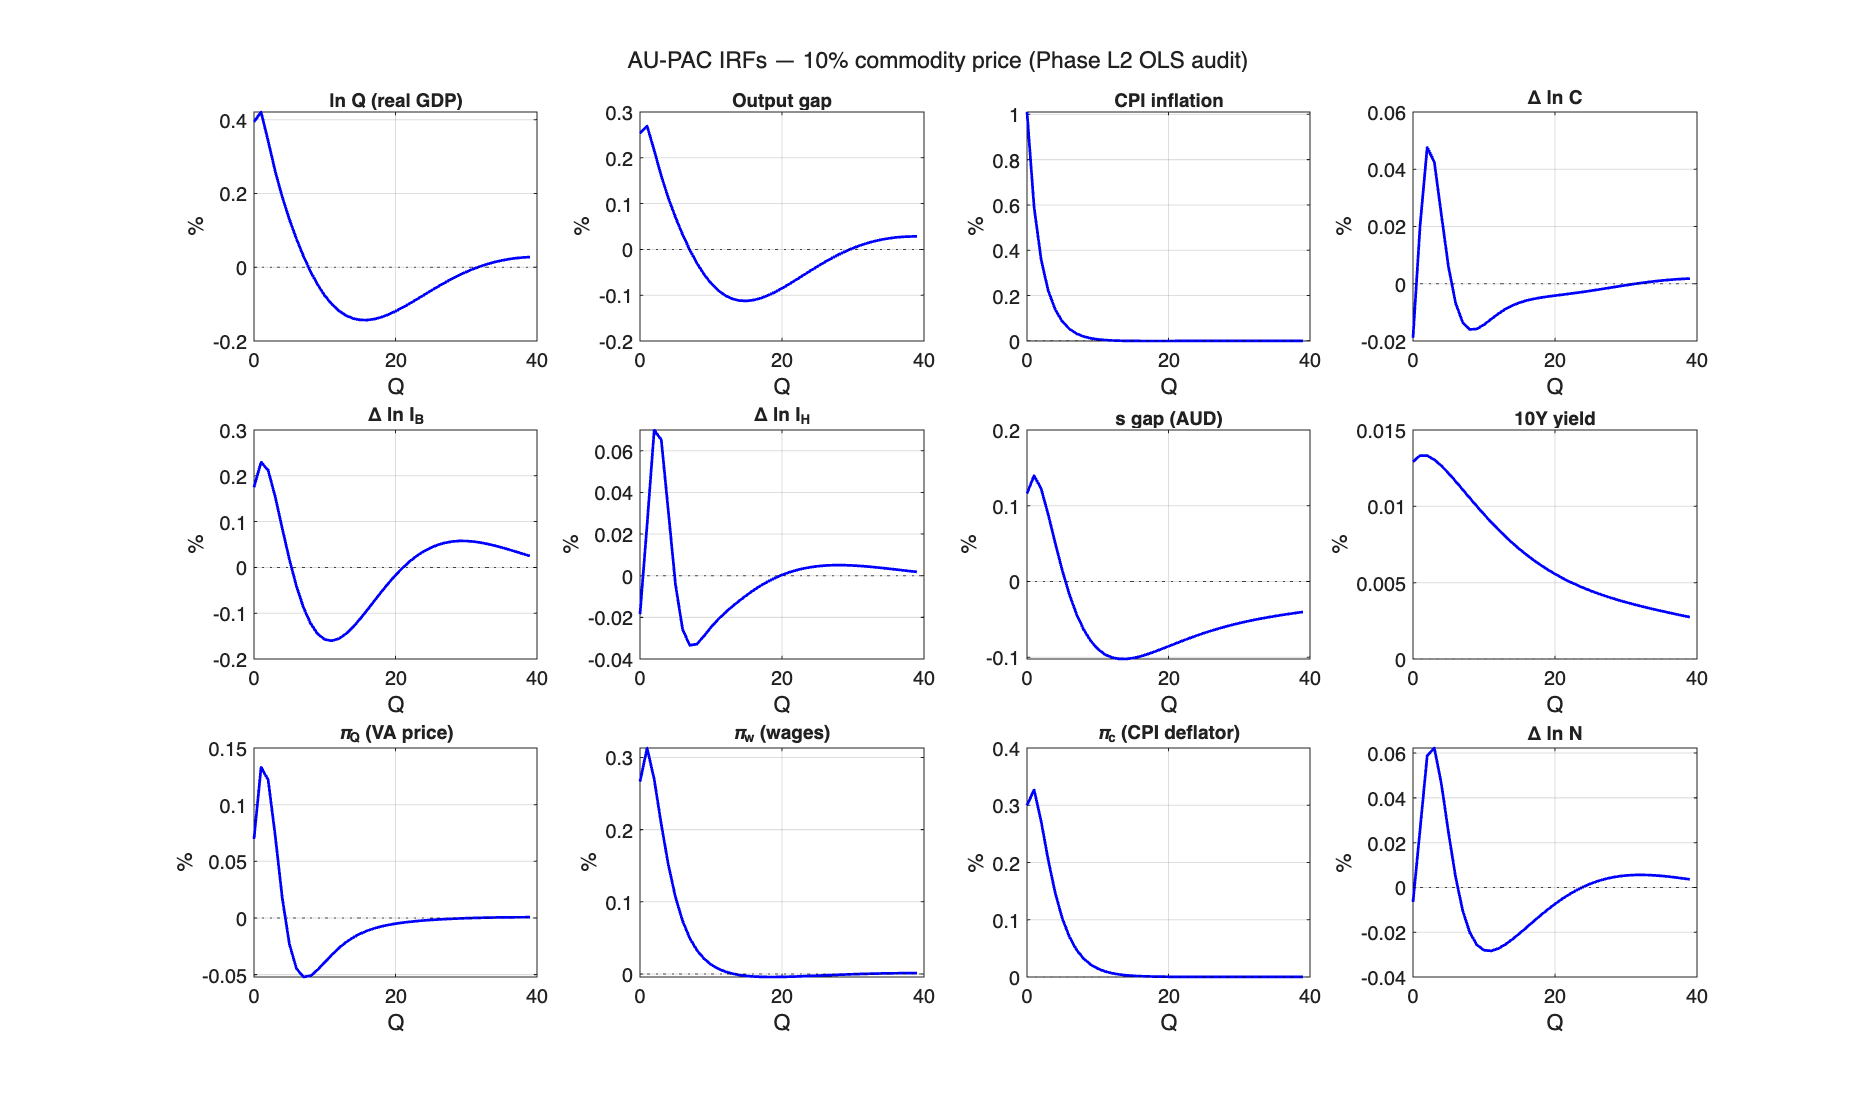
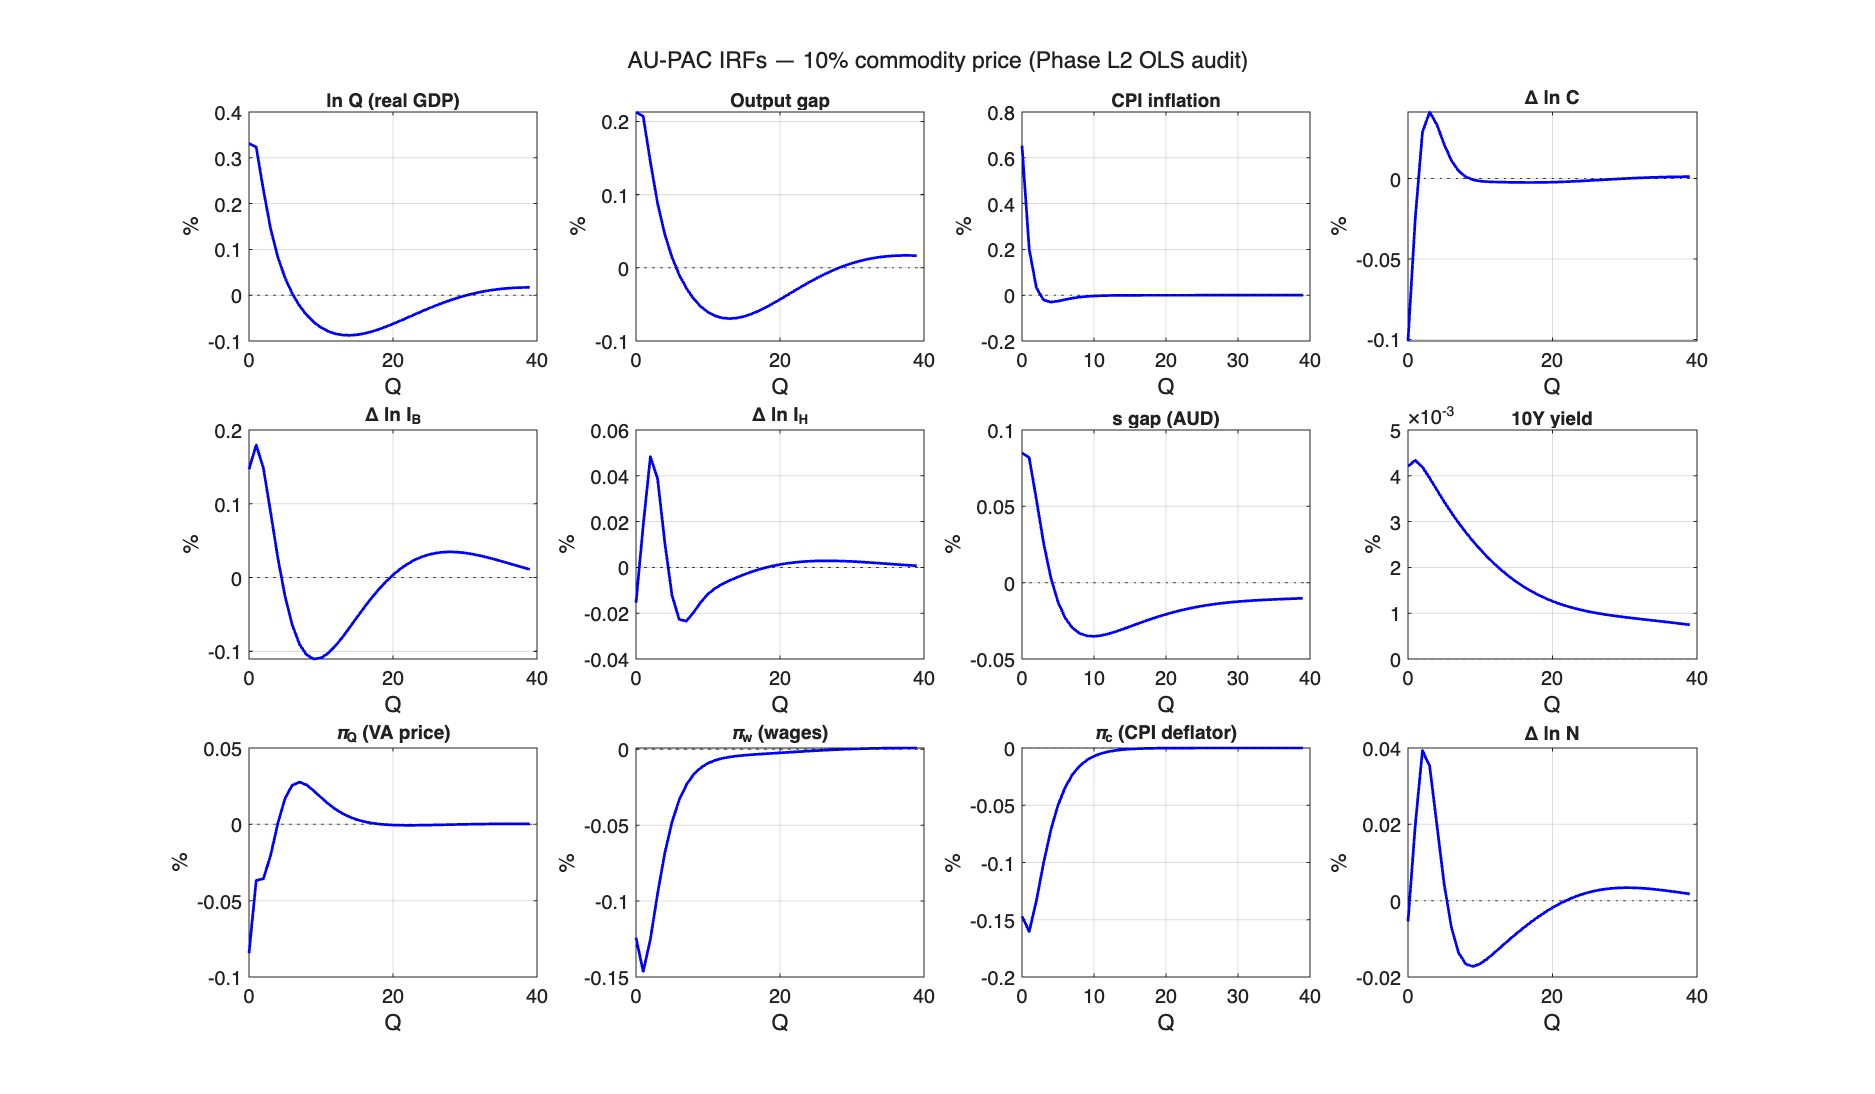
wave2: commodity->CPI channel estimated; BI rejection robust; stale "partial" caveats closed
Three Wave-2 findings, all enabled by l2_data_layer_v2.mat already containing data the
docs claimed was missing (exports, p_SH/p_IH) plus dln_pcom in trade_price_data.mat:

1. Flat-Phillips commodity channel (gamma_oil): added dln_pcom (RBA I02) to the CPI
   Phillips OLS. gamma_oil = -0.0147 (t=-1.61, insignificant AND wrong-signed); R2 only
   0.063->0.083. The flat-AU-Phillips finding is ROBUST to the commodity channel. Written
   back verbatim into the production pi_c equation per the OLS-over-calibration convention
   (contemporaneous channel; aux-VAR lagged use and the frozen h_pac left unchanged).

2. Business investment rejection is ROBUST. Re-ran the BI PAC estimation with the COMPLETE
   df_full (c + ih + exports) + wacc-based r_KB: still R2~0.09, beta_3 (demand gap) insig
   (t=0.63), no valid chi root. The #1 audit caveat ("rejection confounded by missing
   exports / simplified WACC") is refuted -> the wp1044 Option-1 calibration is justified,
   not a data-gap artifact. Fixed the script's stale "exports missing" notes.

3. Housing price-spread is NOT skipped. The estimator already builds (p_SH - p_IH) from the
   v2 layer (p_SH=ABS 6416 RPPI, p_IH=ABS 5206 IPD); beta_3 ~ -2.8 (t<1), insignificant/
   wrong-signed, consistent with the production b_ph_ih=0. Fixed the stale "skipped" notes.

BLOCK_LIMITATIONS.md updated with a header note: the BI-exports and housing-price-spread
[…]

diff --git a/data/pac_blocks/estimate_cpi_phillips.m b/data/pac_blocks/estimate_cpi_phillips.m
@@ -74,6 +74,20 @@ end
 fprintf('Import IPD: %d obs loaded, %d valid, std=%.3f\n', ...
         numel(pi_m_full), sum(~isnan(pi_m_aligned)), std(pi_m_aligned,'omitnan'));
 
+%% Load AU commodity-price change (RBA I02) for the oil/commodity passthrough channel
+% Wave 2: dln_pcom IS available in trade_price_data.mat (built from RBA I02), so the
+% gamma_oil channel can now be AU-estimated rather than left at the wp1044 calibration.
+TP = load(fullfile(projectdir,'data','trade_price_data.mat'));
+dln_pcom_full = TP.dln_pcom(:);
+dln_pcom_full = dln_pcom_full(~isnan(dln_pcom_full));
+if numel(dln_pcom_full) >= T_est
+    dln_pcom_aligned = dln_pcom_full(end-T_est+1:end);   % end-align to sample end (as for pi_m)
+else
+    dln_pcom_aligned = [NaN(T_est-numel(dln_pcom_full),1); dln_pcom_full];
+end
+fprintf('dln_pcom (RBA I02): %d obs, aligned %d, std=%.3f\n', ...
+        numel(dln_pcom_full), sum(~isnan(dln_pcom_aligned)), std(dln_pcom_aligned,'omitnan'));
+
 %% Construct regressors
 pi_au_gap     = pi_au_gap_E;           % already gap form
 piQ_gap       = piQ - pibar_au;        % VA-price inflation minus CPI trend
@@ -87,11 +101,12 @@ piQ_gap_lag   = [NaN; piQ_gap(1:end-1)];
 % LHS
 y = pi_au_gap;
 
-% RHS matrix: [const, pi_au_gap(-1), yhat_au(-1), piQ_gap, pi_m_gap]
+% RHS matrix: [const, pi_au_gap(-1), yhat_au(-1), piQ_gap, pi_m_gap, dln_pcom]
 % Note: alpha_pc_lag dropped due to severe multicollinearity with pi_m_gap
 % (corr > 0.99). wp1044 alpha_pc_lag = 0.023 is tiny relative to alpha_pc=0.385,
 % so dropping is a minor specification choice; alpha_pc_lag will be set to 0.
-X = [ones(T_est,1), pi_au_gap_lag, yhat_au_lag, piQ_gap, pi_m_gap];
+% Wave 2: dln_pcom (contemporaneous commodity-price change) added to estimate gamma_oil.
+X = [ones(T_est,1), pi_au_gap_lag, yhat_au_lag, piQ_gap, pi_m_gap, dln_pcom_aligned];
 
 % Drop NaNs
 valid = ~any(isnan([X, y]), 2);
@@ -101,7 +116,8 @@ fprintf('CPI Phillips OLS: %d obs valid out of %d\n', sum(valid), T_est);
 [b, se, tstat, R2, rss, N] = ols_with_se(X(valid,:), y(valid));
 
 names = {'(intercept)', 'lambda_pi (pi_au_gap lag)', 'kappa_pi (yhat_au lag)', ...
-         'alpha_pc (piQ_gap contemp)', 'beta_pc_m (pi_m_gap contemp)'};
+         'alpha_pc (piQ_gap contemp)', 'beta_pc_m (pi_m_gap contemp)', ...
+         'gamma_oil (dln_pcom contemp)'};
 
 fprintf('\nCPI Phillips single-equation OLS (wp1044 Eq 51 / FR-BDF Eq 80)\n');
 fprintf('Generated %s\n\n', datetime('now'));
@@ -115,8 +131,8 @@ fprintf('  lambda_pi    = 0.4018 (wp1044 E-SAT)\n');
 fprintf('  kappa_pi     = 0.0979 (wp1044 E-SAT)\n');
 fprintf('  alpha_pc     = 0.3850 (wp1044 beta_1)\n');
 fprintf('  alpha_pc_lag = 0.0230 (wp1044 beta_0 * correction)\n');
-fprintf('\nNote: beta_pc_m, gamma_oil, b_ECM_pc remain wp1044-calibrated\n');
-fprintf('      (no AU import-deflator / commodity / p_C_star series in pipeline).\n');
+fprintf('\nNote: gamma_oil now AU-estimated (dln_pcom). b_ECM_pc remains wp1044-calibrated\n');
+fprintf('      (still no AU p_C_star series for the import-price ECM term).\n');
 
 %% Save .mat + .txt
 out.b     = b;
@@ -137,9 +153,9 @@ for k = 1:numel(names)
     fprintf(fid, '%-32s  %10.4f  %10.4f  %8.2f\n', names{k}, b(k), se(k), tstat(k));
 end
 fprintf(fid, '\nR^2 = %.4f, N = %d\n', R2, N);
-fprintf(fid, '\nMethodology: 4-coef single-equation OLS.\n');
+fprintf(fid, '\nMethodology: single-equation OLS with AU commodity channel (Wave 2).\n');
 fprintf(fid, 'Sample: estimation_data.mat (1993Q3 onward, 122 obs).\n');
-fprintf(fid, 'beta_pc_m, gamma_oil, b_ECM_pc kept at wp1044 calibration.\n');
+fprintf(fid, 'gamma_oil now AU-estimated (dln_pcom, RBA I02). b_ECM_pc kept at wp1044 calibration.\n');
 fclose(fid);
 
 fprintf('\nWrote results_cpi_phillips.mat + .txt\n');

diff --git a/data/pac_blocks/estimate_pac_business_inv.m b/data/pac_blocks/estimate_pac_business_inv.m
@@ -171,7 +171,9 @@ fprintf('chi = %.4f, omega = %.2f, R^2 = %.4f, N = %d, sigma = %.3f\n', ...
     chi, omega, R2, n_ols, sigma);
 
 fprintf('\nvs wp1044 Table 3.5.13: b0=0.096, b1=0.33, b2=0.11, b3=0.69, R^2=0.83\n');
-fprintf('Note: df = c + ih only (exports missing); see BLOCK_LIMITATIONS.md\n');
+fprintf('Note: uses df_full (c+ih+exports) + wacc-based r_KB from l2_data_layer_v2.\n');
+fprintf('AU still REJECTS the PAC restriction (R^2~0.09, beta_3 insig, no valid chi root)\n');
+fprintf('=> rejection robust to completing df; the wp1044 Option-1 calibration is justified.\n');
 
 %% Save
 out.block = 'Business inv (wp1044 Eq 46, partial)';
@@ -181,7 +183,7 @@ out.coefs = b; out.se = se; out.tstat = tstat; out.names = {names_free};
 out.R2 = R2; out.N = n_ols; out.n_iter = iter; out.history = history;
 out.state_names = {state_names}; out.Phi = Phi;
 out.converged = (delta < tol);
-out.note = 'df missing exports; partial replication';
+out.note = 'df_full (c+ih+exports) + wacc r_KB: AU rejects PAC robustly (R2~0.09, beta_3 insig, no valid chi root); wp1044 Option-1 calibration justified, not a missing-data artifact.';
 save(fullfile(projectdir, 'data', 'pac_blocks', 'results_business_inv.mat'), '-struct', 'out');
 
 fid = fopen(fullfile(projectdir, 'data', 'pac_blocks', 'results_business_inv.txt'), 'w');
@@ -192,7 +194,9 @@ for j = 1:length(names_free)
 end
 fprintf(fid, 'chi=%.4f, R^2=%.4f, N=%d, sigma=%.4f\n', chi, R2, n_ols, sigma);
 fprintf(fid, '\nwp1044 FR: b0=0.096, b1=0.33, b2=0.11, b3=0.69, R^2=0.83\n');
-fprintf(fid, 'PARTIAL: df = c + ih (exports missing)\n');
+fprintf(fid, 'ROBUST REJECTION: df_full (c+ih+exports) + wacc r_KB still gives R^2~0.09,\n');
+fprintf(fid, '  beta_3 insig (t<1), no valid chi root => wp1044 Option-1 calibration justified\n');
+fprintf(fid, '  (not a missing-data artifact). See working paper 5.3.\n');
 fclose(fid);
 
 fprintf('\n=== Phase L2-C5 complete ===\n');

diff --git a/data/pac_blocks/estimate_pac_housing_inv.m b/data/pac_blocks/estimate_pac_housing_inv.m
@@ -22,7 +22,7 @@
 %   - LHS = dlog(au_gfcf_dwelling) * 100
 %   - I*_H proxy: HP trend of log(au_gfcf_dwelling) (no LR target equation
 %     since wp1044 Eq 36 needs price terms we don't have)
-%   - Price spread term DROPPED (BLOCK_LIMITATIONS.md)
+%   - Price spread term ESTIMATED from l2_data_layer_v2 (p_SH/p_IH); insig on AU data
 %   - Damping + clamps from consumption block
 
 clear; clc;
@@ -148,7 +148,8 @@ fprintf('chi = %.4f, omega = %.2f, derived_coef = %.4f, R^2 = %.4f, N = %d\n', .
     chi, omega, 1 - beta_1 - omega, R2, n_ols);
 
 fprintf('\nvs wp1044 Table 3.5.7: b0=0.12, b1=0.18, b2=0.50, R^2=0.89\n');
-fprintf('Note: beta_3 price-spread term SKIPPED (no AU pSH/pIH data; see BLOCK_LIMITATIONS.md)\n');
+fprintf('Note: beta_3 price-spread (pSH-pIH) IS estimated (p_SH=ABS 6416 RPPI, p_IH=ABS 5206 IPD\n');
+fprintf('      in l2_data_layer_v2) but is insignificant/wrong-signed on AU data (beta_3~-2.8, t<1).\n');
 
 %% Save
 out.block = 'Housing inv (wp1044 Eq 37, partial)';
@@ -158,7 +159,7 @@ out.coefs = b; out.se = se; out.tstat = tstat; out.names = {names_free};
 out.R2 = R2; out.N = n_ols; out.n_iter = iter; out.history = history;
 out.state_names = {state_names}; out.Phi = Phi;
 out.converged = (delta < tol);
-out.note = 'price-spread (pSH-pIH) term skipped; no AU data';
+out.note = 'price-spread (pSH-pIH) term estimated from v2 layer but insignificant/wrong-signed (beta_3~-2.8, t<1)';
 save(fullfile(projectdir, 'data', 'pac_blocks', 'results_housing_inv.mat'), '-struct', 'out');
 
 fid = fopen(fullfile(projectdir, 'data', 'pac_blocks', 'results_housing_inv.txt'), 'w');
@@ -169,7 +170,7 @@ for j = 1:length(names_free)
 end
 fprintf(fid, 'chi=%.4f, R^2=%.4f, N=%d\n', chi, R2, n_ols);
 fprintf(fid, '\nwp1044 FR: b0=0.12, b1=0.18, b2=0.50, R^2=0.89\n');
-fprintf(fid, 'PARTIAL: beta_3 price spread skipped (no AU pSH/pIH data)\n');
+fprintf(fid, 'beta_3 price-spread (pSH-pIH) IS estimated (v2 layer) but insig/wrong-signed (t<1).\n');
 fclose(fid);
 
 fprintf('\n=== Phase L2-C4 complete ===\n');

diff --git a/BLOCK_LIMITATIONS.md b/BLOCK_LIMITATIONS.md
@@ -2,6 +2,11 @@
 
 Documented as part of the Phase L2-A data layer survey (2026-05-26).
 
+> **UPDATE (2026-05-30, Wave 2): two of the gaps below were already closed in `l2_data_layer_v2.mat` — the caveats are stale.**
+> - **BI exports**: `l2_data_layer_v2.mat` contains `exports`, `df_full` (= c + ih + exports), and a wacc-based `r_KB`. The BI estimator uses `df_full`. Re-tested with the complete `df` + wacc `r_KB`, AU business investment **still rejects** the PAC restriction (R²≈0.09, β₃ insignificant, no valid χ root) — so the rejection is robust and the wp1044 Option-1 calibration is justified, **not** a missing-data artifact.
+> - **Housing price-spread**: `l2_data_layer_v2.mat` contains `p_SH` (ABS 6416 RPPI) and `p_IH` (ABS 5206 IPD). The housing estimator **does** build and estimate the `(p_SH − p_IH)` spread term; it is insignificant/wrong-signed on AU data (β₃ ≈ −2.8, t<1), consistent with the production model's `b_ph_ih = 0`.
+> - **Commodity→CPI**: `dln_pcom` (RBA I02) is in `trade_price_data.mat`; the CPI Phillips now estimates `gamma_oil` = −0.0147 (insig, wrong-signed) — the flat-AU-Phillips finding is robust to the commodity channel.
+
 ## Missing AU observables
 
 ### Exports / Imports